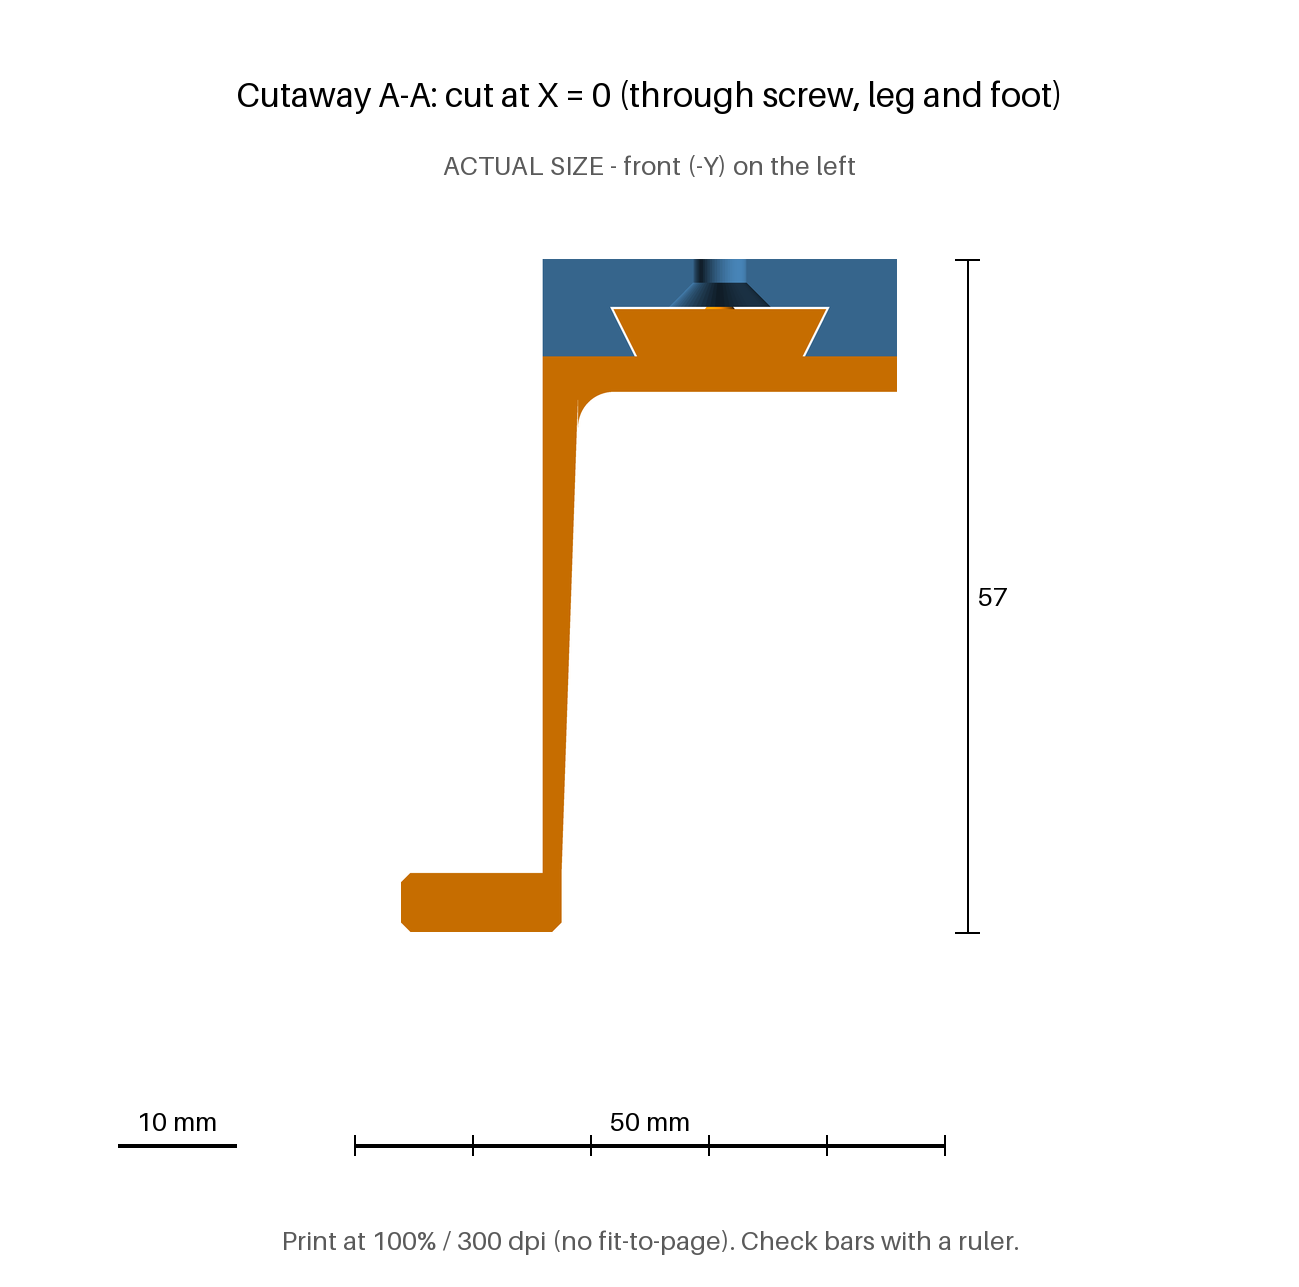
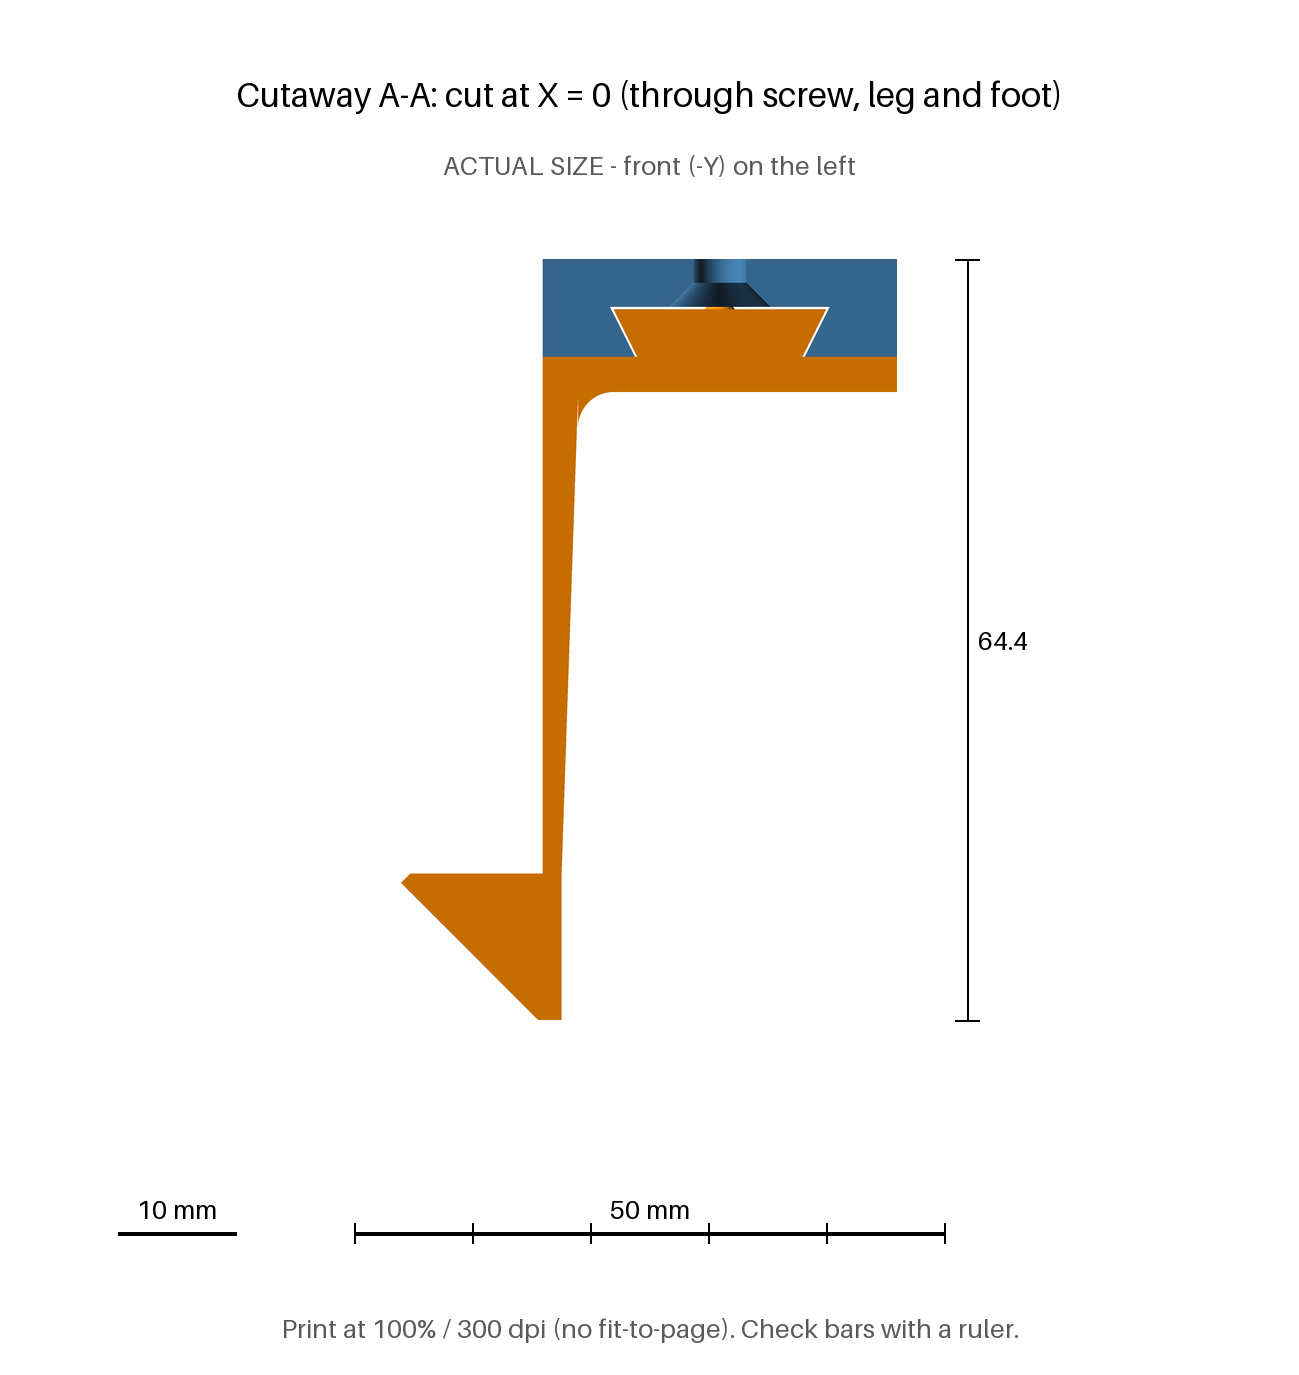
Restore cutaway view source; regenerate cutaways with the foot extension
catch_section_view.scad is back (comment updates only). scale_cutaways.py
now uses the full height including the foot extension for both views, and
catch_cutaway_A/B.png are regenerated (110 x 116 mm page).

diff --git a/2-piece/scale_cutaways.py b/2-piece/scale_cutaways.py
@@ -33,7 +33,7 @@ VIEWS = {
           P.plate_d / 2 - P.foot_y0, mount_top - P.foot_ext_z,
           "front (-Y) on the left"),
     "B": ("Cutaway B-B: cut at Y = 0 (along the slide direction)",
-          P.plate_w, mount_top,
+          P.plate_w, mount_top - P.foot_ext_z,
           "catch slides in from either side"),
 }
 

diff --git a/2-piece/README.md b/2-piece/README.md
@@ -97,7 +97,7 @@ with a ruler. Regenerate with `python3 make_section_png.py` after changing any d
 - `catch_cutaway_A.png` — cut through the screw, front to back: leg, foot, dovetail, countersink.
 - `catch_cutaway_B.png` — cut along the slide direction: open channel, screw, both detent bumps in their dimples.
 
-Both are **actual size** at 300 dpi (110 × 102 mm page): print at 100 % with no fit-to-page and
+Both are **actual size** at 300 dpi (110 × 116 mm page): print at 100 % with no fit-to-page and
 check the 10 mm / 50 mm bars with a ruler. Regenerate with `./make_cutaways.sh`.
 
 ## STL export
